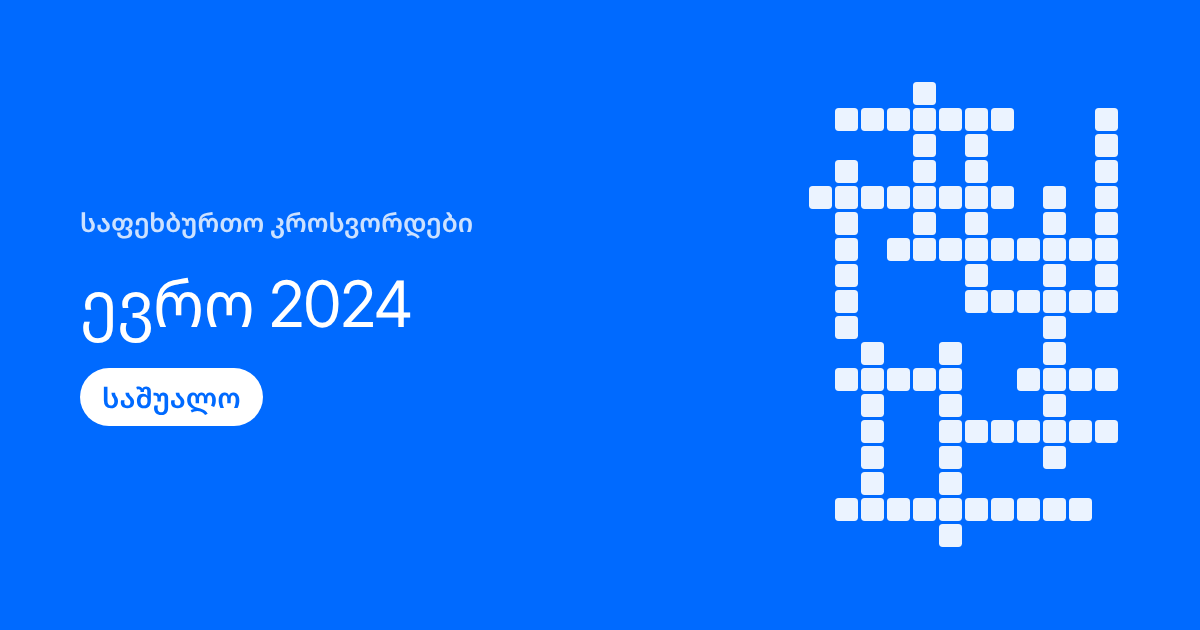
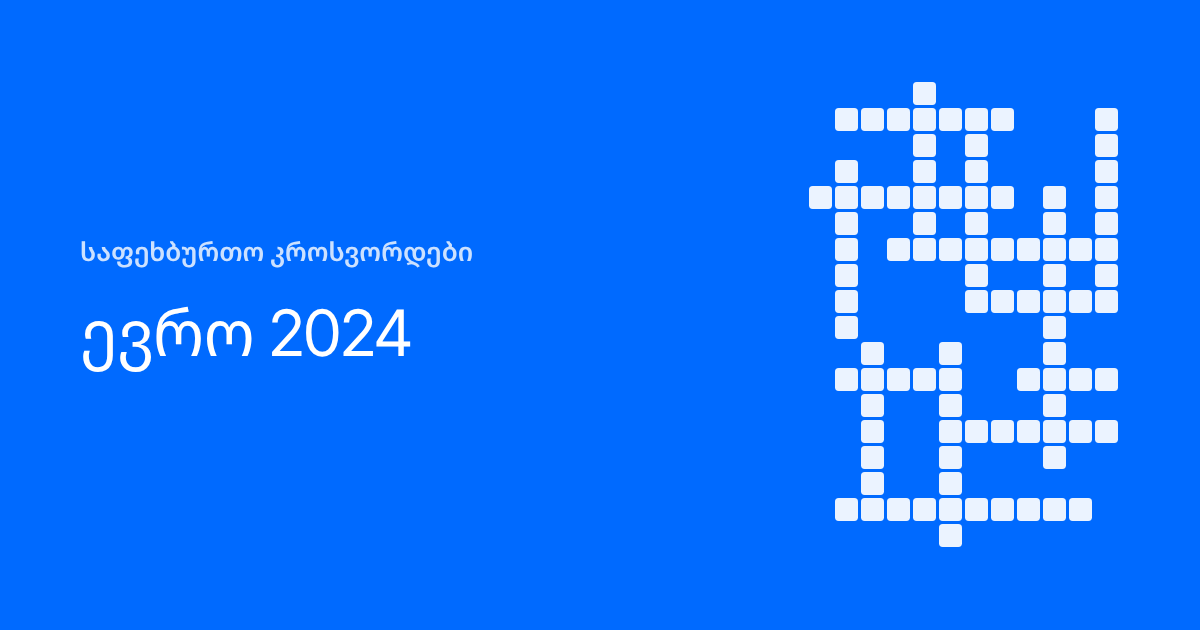
Georgian share images: no level

Changed region(s): [[0.0617, 0.3317, 0.4008, 0.6937]]

diff --git a/tools/build_share.js b/tools/build_share.js
@@ -221,7 +221,7 @@ ${gridSvg}
     p.words.forEach((w) => { for (let i = 0; i < w.answer.length; i++) cells.add((w.row + (w.dir === "D" ? i : 0)) + "," + (w.col + (w.dir === "A" ? i : 0))); });
     await shot(imageHtml({
       titleHtml: p.title, kicker: ka ? KA.brand : BRAND, lang: ka ? "ka" : "en",
-      chips: ka ? `<span class="chip solid">${KA.level[c.difficulty]}</span>` : `<span class="chip solid">${c.answers} answers</span>`,
+      chips: ka ? "" : `<span class="chip solid">${c.answers} answers</span>`,
       grid: { rows: p.rows, cols: p.cols, cells: [...cells].map((k) => k.split(",").map(Number)) },
     }), path.join(ROOT, c.folder, "share.png"));
     fs.writeFileSync(path.join(ROOT, c.folder, "index.html"), puzzlePage(c, p));
